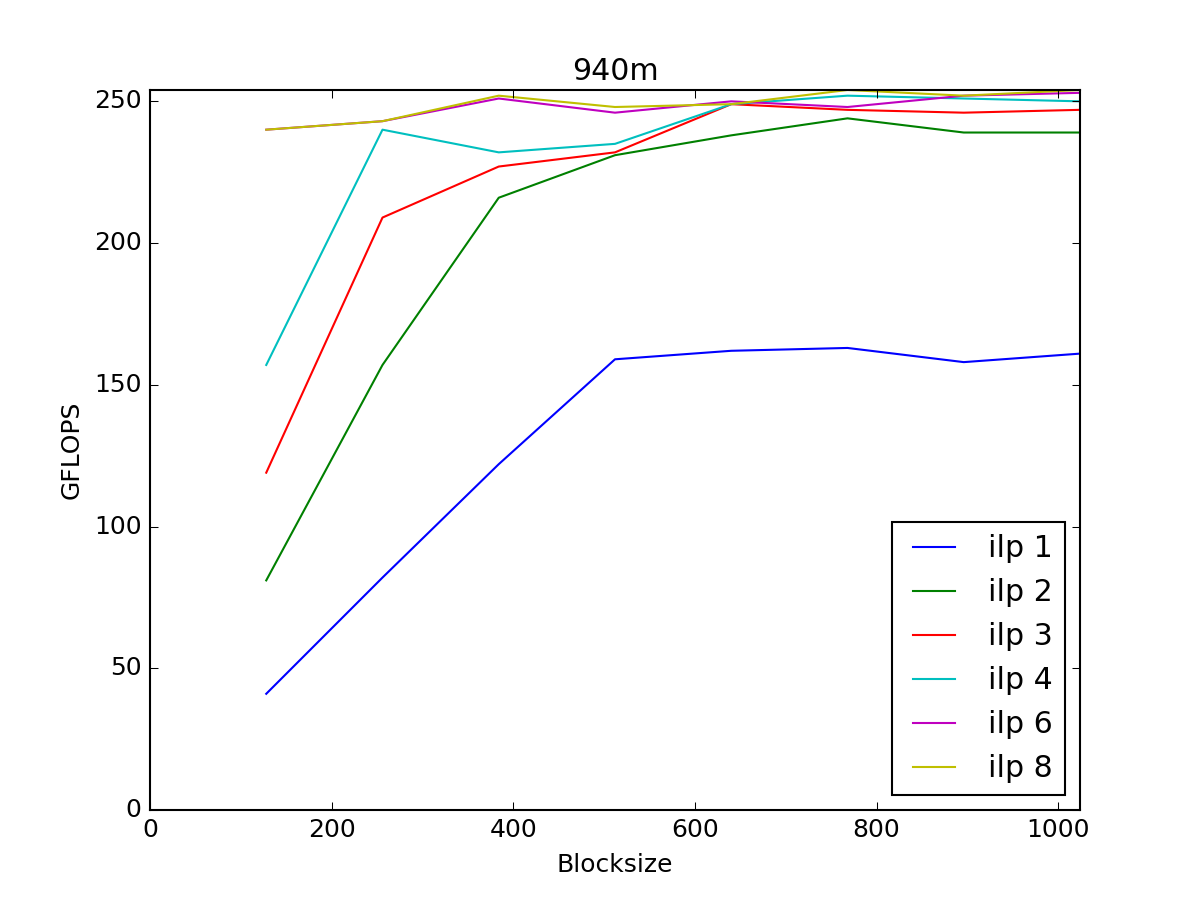
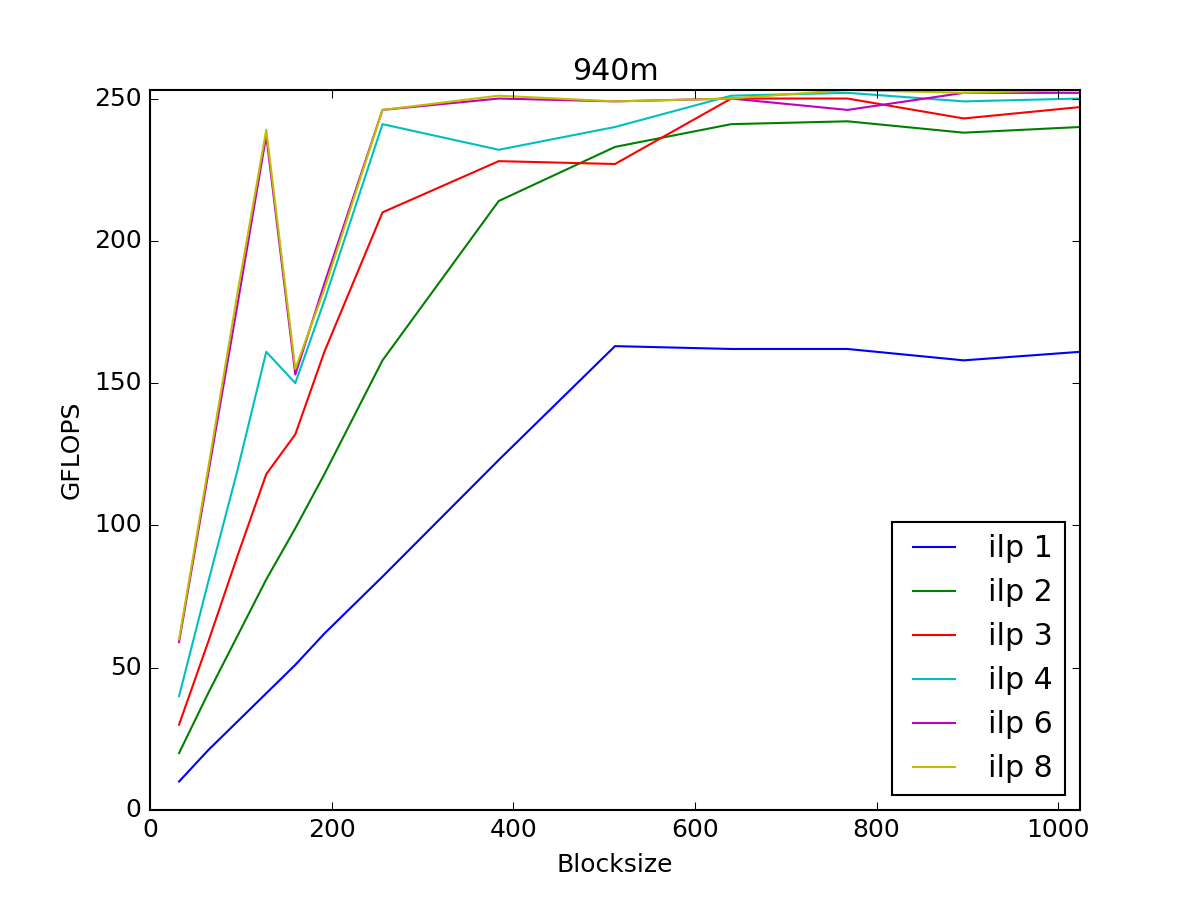
prod graph of volkov1 for 940m a bit

diff --git a/gpuexperiments/volkov1.py b/gpuexperiments/volkov1.py
@@ -29,7 +29,7 @@ code_template = r"""
                 float b = data[0];
                 float c = data[1];
                 #pragma unroll {{unroll}}
-                for(int i = 0; i < {{its / ilp}}; i++) {
+                for(int i = 0; i < {{its // ilp}}; i++) {
                     {% for j in range(ilp) %}
                       {% if fma %}
                         a{{j}} = fma(a{{j}}, b, c);
@@ -63,7 +63,9 @@ experiments = [
 
 for experiment in experiments:
     template = jinja2.Template(experiment['code'], undefined=jinja2.StrictUndefined)
-    for block in range(128,1024+128,128):
+    block_sizes = [32, 64, 96, 128, 160, 192] + list(range(256, 1024++128, 128))
+    # for block in range(128,1024+128,128):
+    for block in block_sizes:
     #    source = code_template
         its = (8000000//256//experiment['ilp']) * 256 * experiment['ilp']
         if block <= 384:
